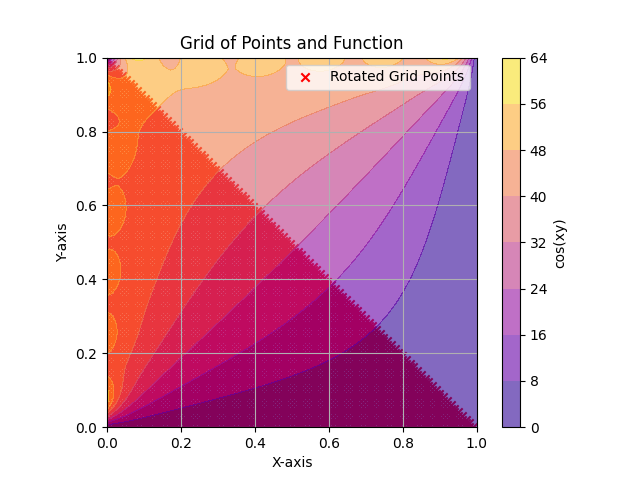
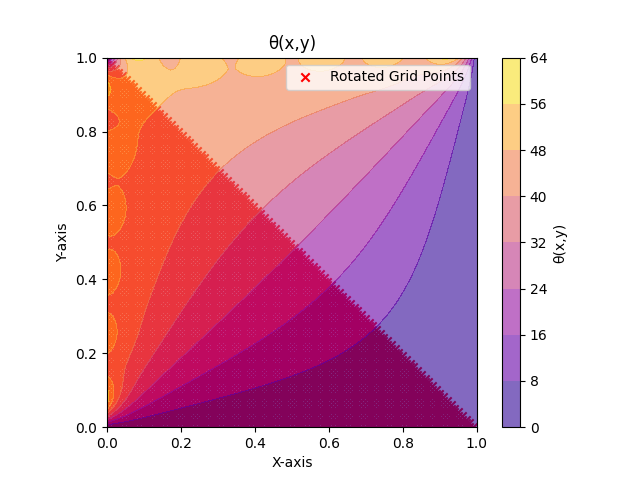
add finite differencemethod for problem #2

diff --git a/AE508/2D_finite_difference.py b/AE508/2D_finite_difference.py
@@ -1,0 +1,54 @@
+# Complete Python script incorporating all requested changes
+
+import numpy as np
+import matplotlib.pyplot as plt
+
+# Grid size
+nx, ny = 10, 10  # 10x10 grid
+dx = dy = 0.25 / (nx - 1)  # Spacing between nodes
+
+# Initialize temperature grid with new boundary conditions
+T = np.zeros((nx, ny))
+
+# Boundary conditions
+T[:, 0] = 600  # Left boundary (x=0) is 600°C
+T[0, :] = 150  # Top boundary (y=0) is 150°C
+# Right and bottom boundaries are insulated (no heat flux)
+
+# Convergence criteria
+tolerance = 1e-6
+max_iterations = 10000
+iteration = 0
+error = 1.0
+
+# Iteratively solving the temperature distribution
+while error > tolerance and iteration < max_iterations:
+    T_new = T.copy()
+    error = 0
+    
+    for i in range(1, nx-1):
+        for j in range(1, ny-1):
+            T_new[i, j] = 0.25 * (T[i+1, j] + T[i-1, j] + T[i, j+1] + T[i, j-1])
+            error = max(error, abs(T_new[i, j] - T[i, j]))
+    
+    # Insulated right boundary: dT/dx = 0 (T at i+1 is the same as at i-1)
+    T_new[1:-1, -1] = T_new[1:-1, -2]  # Right boundary
+    # Insulated bottom boundary: dT/dy = 0 (T at j-1 is the same as at j+1)
+    T_new[-1, 1:-1] = T_new[-2, 1:-1]  # Bottom boundary
+    
+    T = T_new
+    iteration += 1
+
+# Plotting the updated temperature distribution
+plt.figure(figsize=(6, 6))
+plt.contourf(T, cmap='hot', levels=50)
+plt.colorbar(label="Temperature (°C)")
+plt.title(f'Temperature Distribution (Iterations: {iteration})')
+plt.xlabel('X')
+plt.ylabel('Y')
+
+# Save the plot
+file_path_final = '2d_conduction_finite_diference.png'
+plt.savefig(file_path_final)
+
+file_path_final

diff --git a/AE508/2D_steady_conduction.py b/AE508/2D_steady_conduction.py
@@ -36,7 +36,7 @@ def apply_inequality(X, Y):
 
 def apply_rotated_inequality(X_rot, Y_rot):
     """Applies the transformed inequality for rotated data: y > x - 1."""
-    return Y_rot < (-X_rot + 1)
+    return Y_rot > (X_rot - 1)
 
 def compute_function(X, Y, mask, func=np.sin):
     """Computes the function (e.g., sin(xy), cos(xy)) only for the points that satisfy the mask."""
@@ -54,14 +54,14 @@ def plot_rotated_grid_and_function(X_rot, Y_rot, Z_rot, mask_rot, label="Rotated
     """Plots the rotated grid points and function cos(xy) with mask applied."""
     plt.scatter(X_rot[mask_rot], Y_rot[mask_rot], c='red', marker='x', label=label)
     plt.contourf(X_rot, Y_rot, Z_rot, cmap='plasma', alpha=0.6)  # Contour plot of cos(xy)
-    plt.colorbar(label="cos(xy)")
+    plt.colorbar(label="θ(x,y)")
 
 def save_plot(filename="grid_plot.png"):
     """Saves the plot to a file."""
-    plt.title("Grid of Points and Function")
+    plt.title("θ(x,y)")
     plt.xlabel("X-axis")
     plt.ylabel("Y-axis")
-    plt.grid(True)
+    plt.grid(False)
     
     # Set the aspect ratio to be square
     plt.gca().set_aspect('equal', adjustable='box')
@@ -82,7 +82,7 @@ def main():
     
     # Rotated grid and cos(xy)
     X_rot, Y_rot = rotate_grid_90(X, Y)
-    mask_rot = apply_rotated_inequality(X_rot, Y_rot)  # Apply the transformed inequality to the rotated grid
+    mask_rot = apply_inequality(X_rot, Y_rot)  # Apply the transformed inequality to the rotated grid
     theta2 = compute_theta(X_rot, Y_rot, 50, mask_rot)
 
     theta = theta1+theta2
